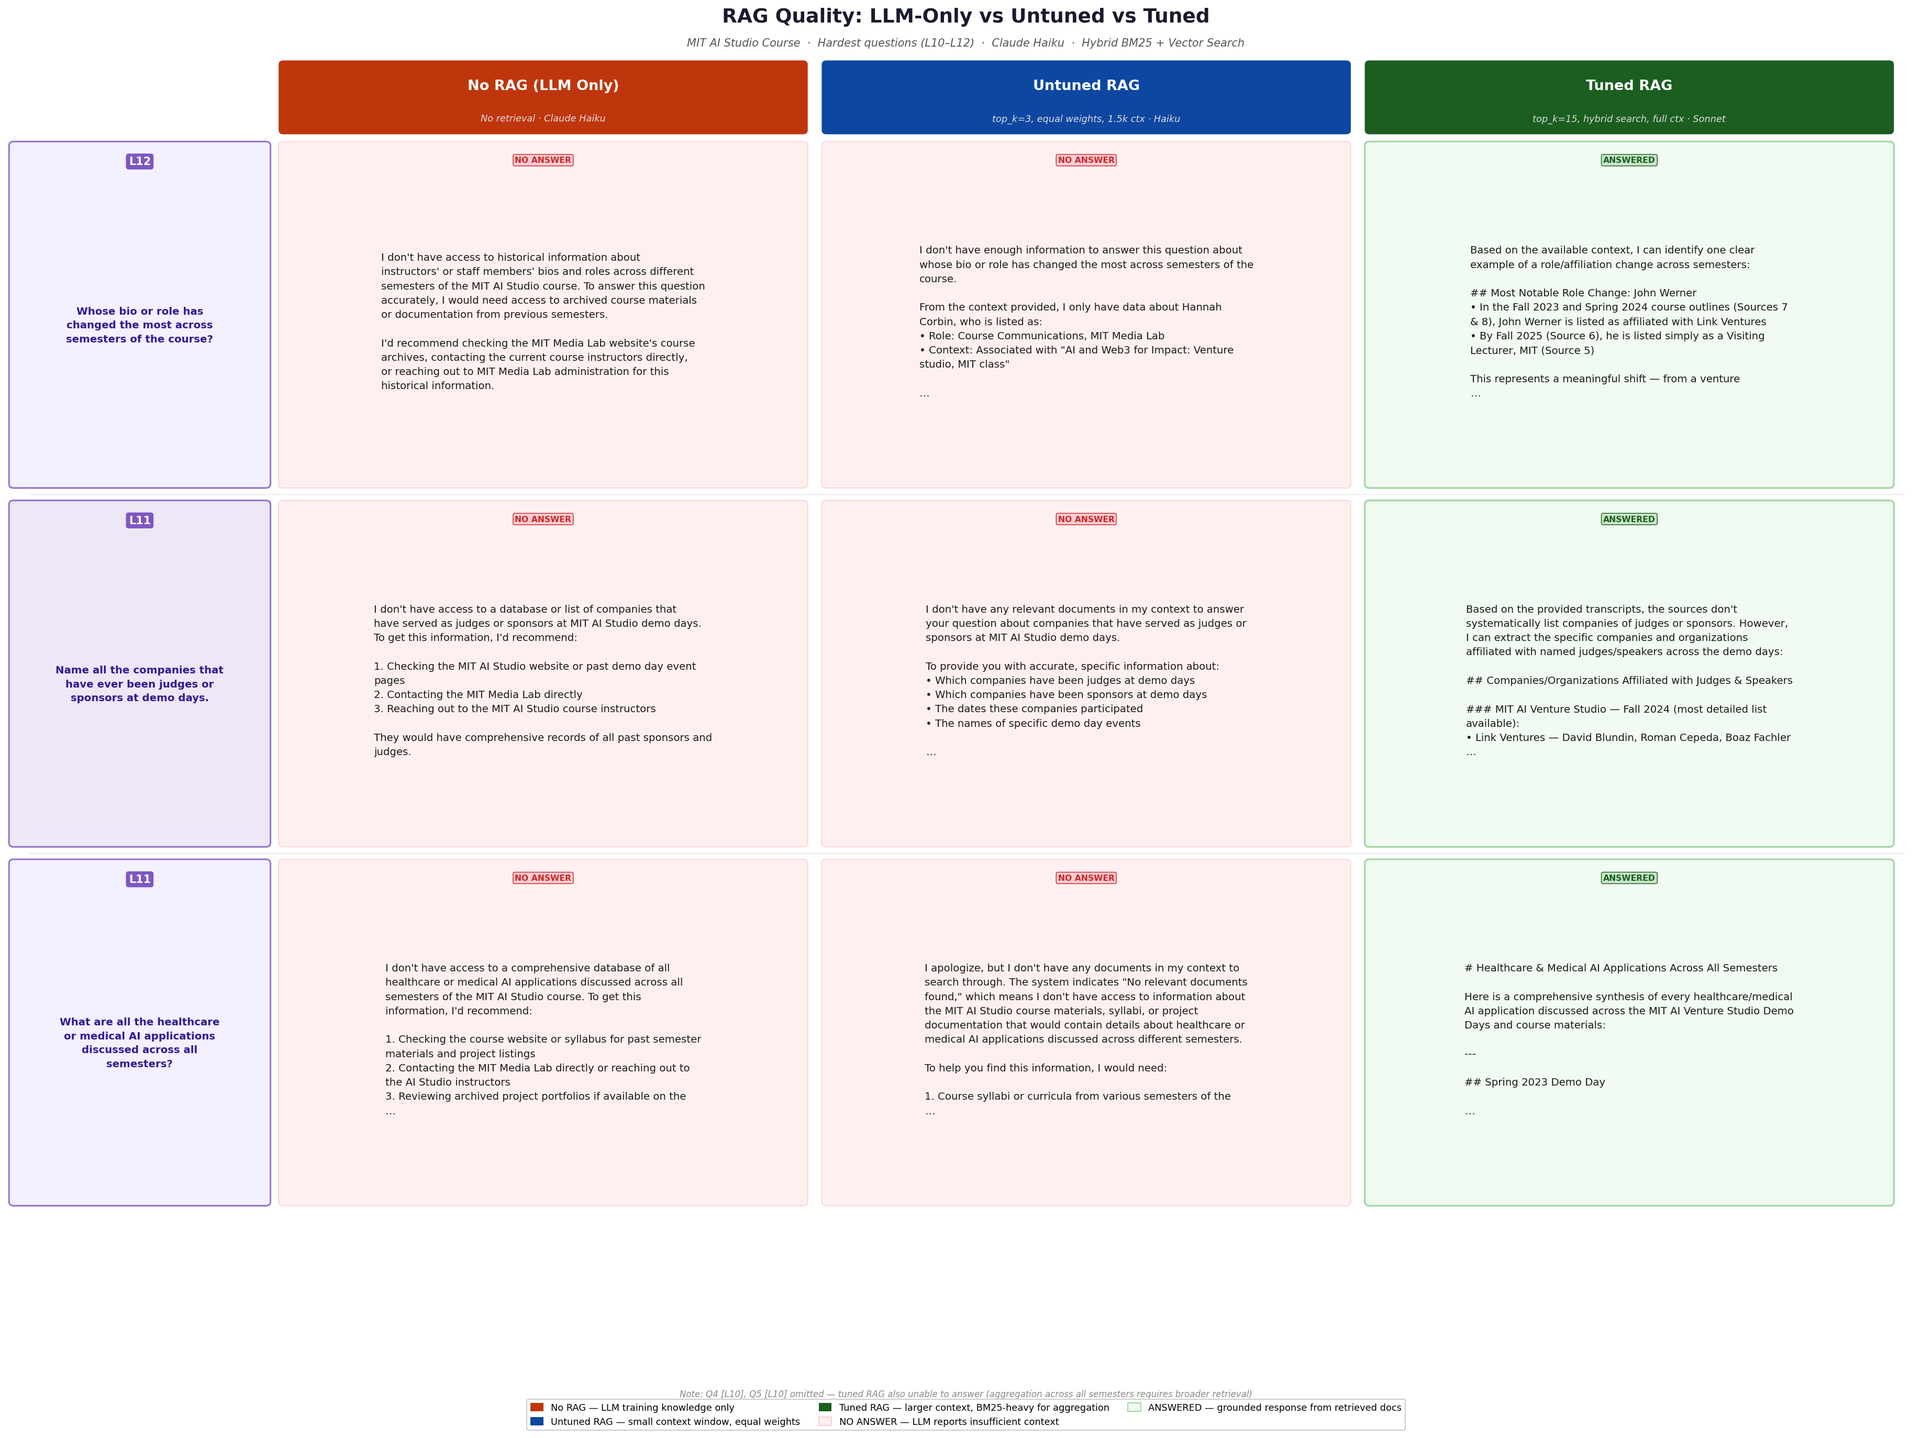
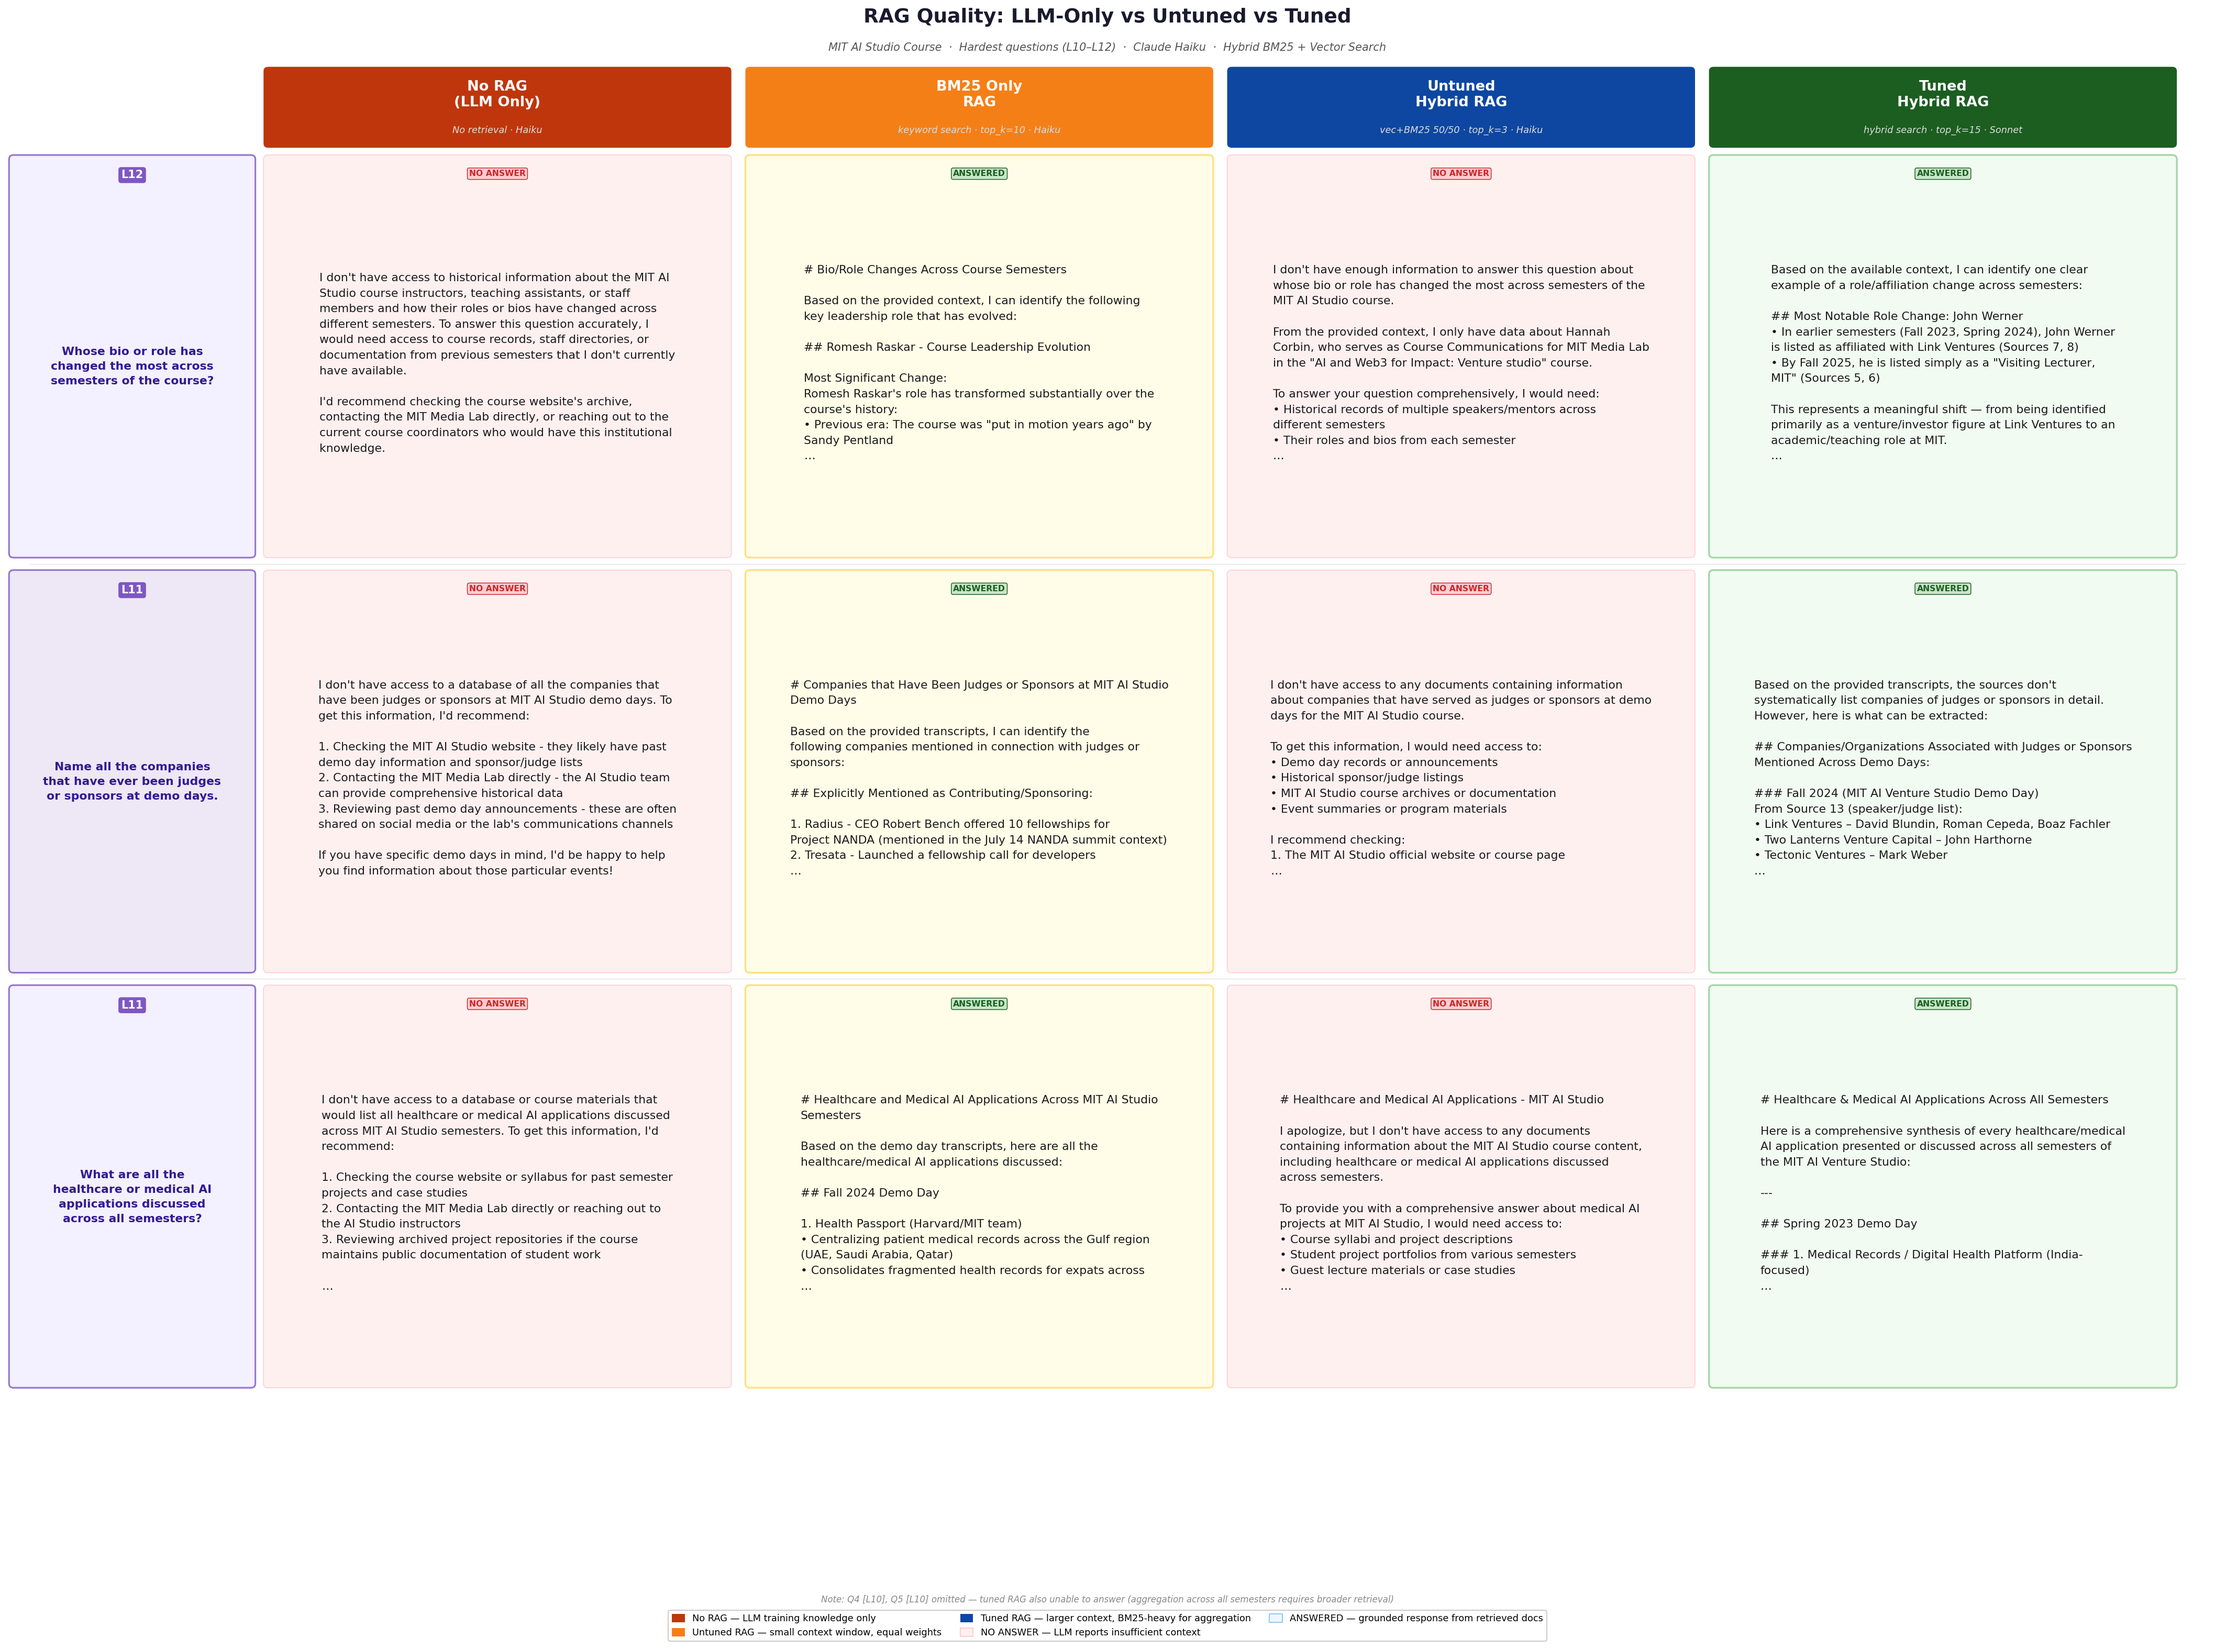
Add RAG comparison chart: No RAG vs BM25 vs Untuned vs Tuned Hybrid
- rag_compare.py: generates publishable chart comparing 4 retrieval
  strategies on the 5 hardest benchmark questions (L10-L12)
  - No RAG (Haiku, no retrieval)
  - BM25-only RAG (Haiku + keyword search)
  - Untuned Hybrid RAG (Haiku + top_k=3, equal weights)
  - Tuned Hybrid RAG (Sonnet + shared.py hybrid_search, full context)
- Fixes DB deduplication: removed 2646 duplicate rows from documents
  and rebuilt vec/FTS indexes (381 unique docs)
- adds answer_quality_score() to tests/shared.py to flag LLM refusals
  ("I don't have access...") as score=0.0 in benchmark evaluations
- --chart-only flag to regenerate chart without re-running API calls

diff --git a/scripts/rag_compare.py b/scripts/rag_compare.py
@@ -193,7 +193,7 @@ FAIL_BORDER   = "#FFCDD2"
 
 # Characters per line and max lines for response text
 WRAP_WIDTH    = 62
-MAX_LINES     = 11
+MAX_LINES     = 13
 
 
 def clip_to_lines(text: str, max_lines: int = MAX_LINES, width: int = WRAP_WIDTH) -> str:
@@ -237,12 +237,12 @@ def make_chart(data: list[list[str]], out_path: Path):
     pad   = 0.15
 
     # Generous cell sizes for readability
-    lw    = 3.0    # question label column
-    cw    = 5.6    # each answer column
-    rh    = 5.2    # row height
-    hdr_h = 1.1    # column header height
+    lw    = 3.2    # question label column
+    cw    = 6.2    # each answer column
+    rh    = 6.0    # row height — taller for readability
+    hdr_h = 1.2    # column header height
     fw    = lw + n_c * cw + 0.3
-    fh    = hdr_h + n_q * rh + 1.6
+    fh    = hdr_h + n_q * rh + 1.8
 
     fig, ax = plt.subplots(figsize=(fw, fh))
     ax.set_xlim(0, fw)
@@ -297,9 +297,9 @@ def make_chart(data: list[list[str]], out_path: Path):
                 bbox=dict(boxstyle="round,pad=0.25", facecolor="#7E57C2",
                           edgecolor="none"))
 
-        qlabel = "\n".join(textwrap.wrap(question, width=28))
+        qlabel = "\n".join(textwrap.wrap(question, width=26))
         ax.text(lw/2, y + rh/2 - 0.15, qlabel,
-                ha="center", va="center", fontsize=9.5, color="#311B92",
+                ha="center", va="center", fontsize=10.5, color="#311B92",
                 fontweight="bold", multialignment="center", linespacing=1.5)
 
         # ── Answer cells ────────────────────────────────────────────────────
@@ -331,8 +331,8 @@ def make_chart(data: list[list[str]], out_path: Path):
             body = clip_to_lines(raw_text)
             ax.text(x + cw/2, y + rh/2 - 0.1,
                     body, ha="center", va="center",
-                    fontsize=9.5, color="#1A1A1A",
-                    multialignment="left", linespacing=1.55,
+                    fontsize=10.5, color="#1A1A1A",
+                    multialignment="left", linespacing=1.6,
                     fontfamily="DejaVu Sans")
 
         # thin separator
